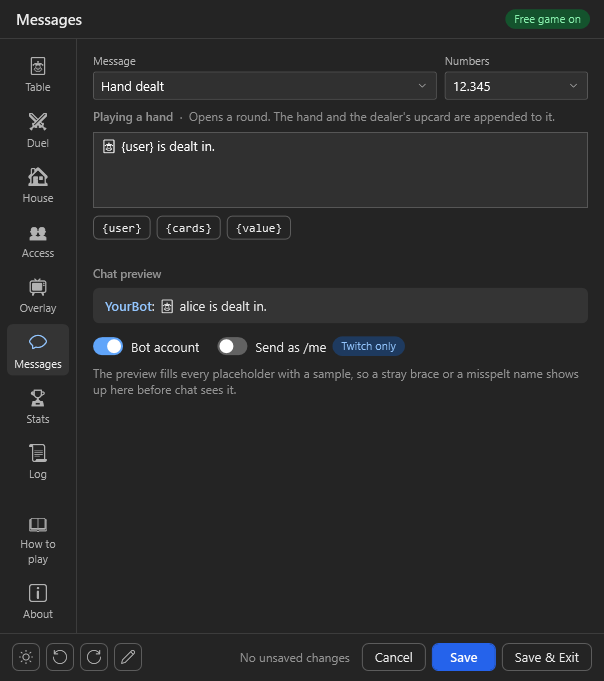
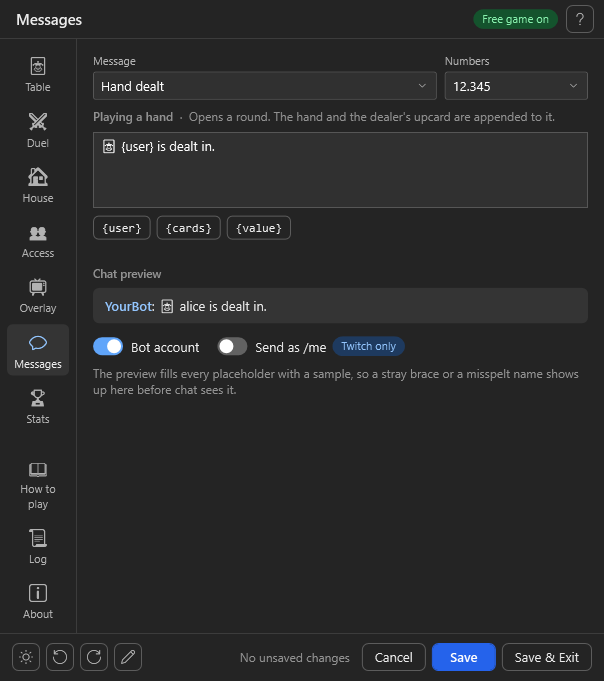
Docs screenshots for 1.1.0; the help switch on the hint line
Every screenshot rendered again with the current window, plus help-lines-dark.png
in Customize.md. The Help under fields switch sits under the customise bar, next
to the hint: on the top row it pushed Done out of a window of the default width.
The tour's Customise stop mentions it (en, de, es).

Changed region(s): [[0.7748, 0.0, 0.9834, 0.0617], [0.0298, 0.6476, 0.0894, 0.8326], [0.0298, 0.4934, 0.0894, 0.5242]]

diff --git a/src/UIFramework/Customize/Customize.cs b/src/UIFramework/Customize/Customize.cs
@@ -537,7 +537,20 @@ namespace UIFramework
             var language = LanguagePicker(ctx.Spec, ctx.Layout, () => Commit(ctx, null));
 
             // The help of every field as a line under it instead of in its tooltip; the window is built again with it.
-            var helpLines = new CheckBox { IsChecked = ctx.Layout.HelpLines, VerticalAlignment = VerticalAlignment.Center, ToolTip = Text.T("cust.helpLines.tip") };
+            // A switch of its own on the hint's line: the top row is full with the colour, the language and the buttons.
+            var helpLines = new CheckBox
+            {
+                Content = Text.T("cust.helpLines"),
+                IsChecked = ctx.Layout.HelpLines,
+                ToolTip = Text.T("cust.helpLines.tip"),
+                Template = Ui.SwitchTemplate(),
+                Foreground = Theme.LabelFg,
+                FontSize = 11,
+                Cursor = Cursors.Hand,
+                VerticalAlignment = VerticalAlignment.Center,
+                Margin = new Thickness(0, 0, 16, 0)
+            };
+            System.Windows.Automation.AutomationProperties.SetName(helpLines, Text.T("cust.helpLines"));
             helpLines.Click += (s, e) =>
             {
                 ctx.Layout.HelpLines = helpLines.IsChecked == true;
@@ -570,7 +583,6 @@ namespace UIFramework
             choices.Children.Add(Beside(Text.T("cust.accent"), accent, 0));
             if (language != null)
                 choices.Children.Add(Beside(Text.T("cust.language"), language, 12));
-            choices.Children.Add(Beside(Text.T("cust.helpLines"), helpLines, 12));
             var controls = new WrapPanel { HorizontalAlignment = HorizontalAlignment.Right, VerticalAlignment = VerticalAlignment.Center, Margin = new Thickness(12, 0, 0, 0) };
             foreach (var button in new[] { reset, export, import, open })
             {
@@ -589,9 +601,16 @@ namespace UIFramework
             Grid.SetColumn(controls, 1);
             top.Children.Add(choices);
             top.Children.Add(controls);
+            // Under the row: the help switch, then the hint with the count of changes, wrapping beside it.
+            var second = new DockPanel { Margin = new Thickness(0, 8, 0, 0), LastChildFill = true };
+            DockPanel.SetDock(helpLines, Dock.Left);
+            second.Children.Add(helpLines);
+            text.Margin = new Thickness(0);
+            text.VerticalAlignment = VerticalAlignment.Center;
+            second.Children.Add(text);
             var panel = new StackPanel();
             panel.Children.Add(top);
-            panel.Children.Add(text);
+            panel.Children.Add(second);
 
             return new Border
             {

diff --git a/docs/Customize.md b/docs/Customize.md
@@ -26,15 +26,18 @@ user's.
   A hidden field keeps its value in the settings file.
 - **The bar at the top**, one row: the accent colour (blue buttons, switches that are on, the active page in
   the rail, links, the bar itself; for every UIFramework window of this Streamer.bot; taken once the picker
-  closes or the typing pauses), the language (by its name: English, Deutsch, Español …), *Help under fields* (each
-  field's help as a small line under it instead of in its tooltip), then four icon buttons named by their tooltips: *Reset
+  closes or the typing pauses), the language (by its name: English, Deutsch, Español …), then four icon buttons named by their tooltips: *Reset
   layout* (everything but the theme), *Export* and *Import* of the settings (see docs/Schema.md), *Open file*
-  (the layout file); then *Done*. The hint with the count of changes is the line under them.
+  (the layout file); then *Done*. Under them: the switch *Help under fields* (each field's help as a small line
+  under it instead of in its tooltip, for every UIFramework window of this game) and the hint with the count of
+  changes.
 - **Messages:** the templates can be sorted, renamed and hidden on their page; they cannot be dragged to
   another page.
 
 After every change the window's content is rebuilt in place, on the same page and at the same scroll position;
 the window itself stays where it is.
+
+<p align="center"><img src="images/help-lines-dark.png" width="420" alt="The demo's Game page with the help as a line under each field"></p>
 
 ## The file
 
